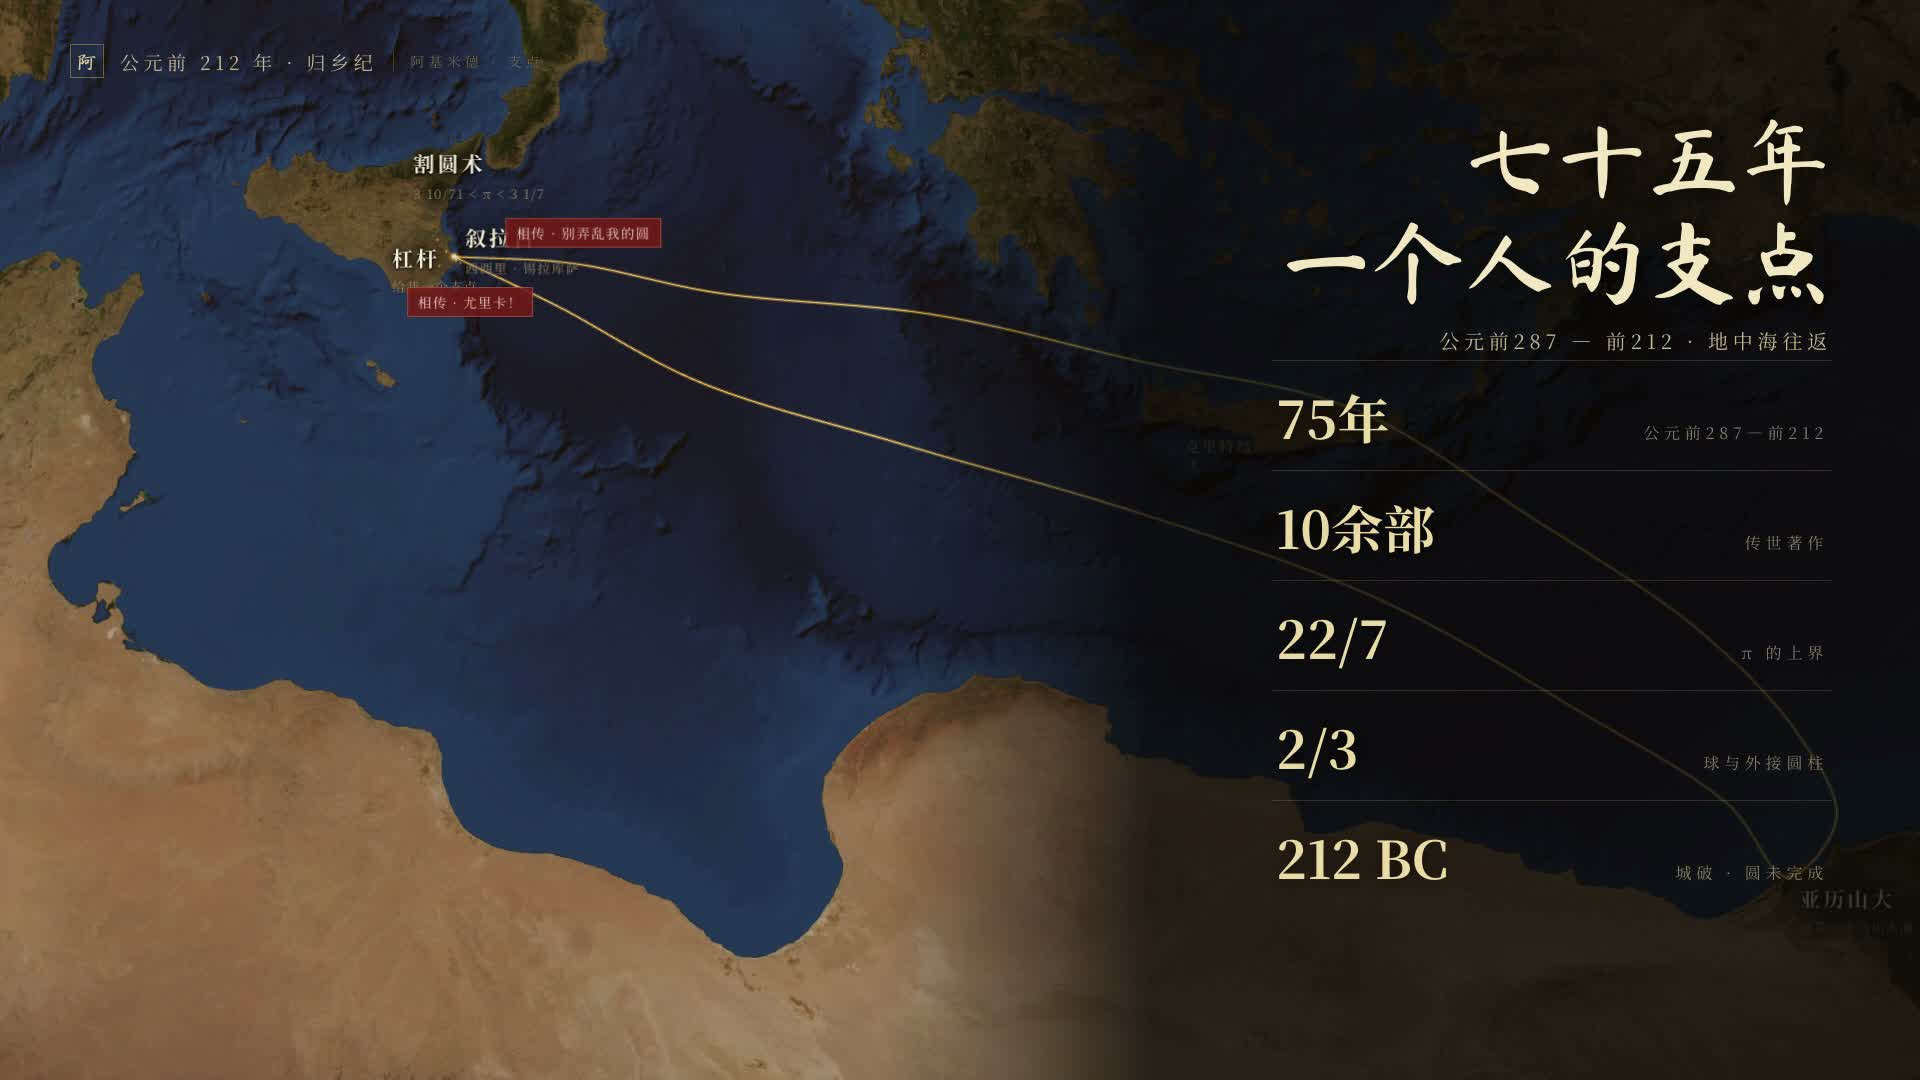
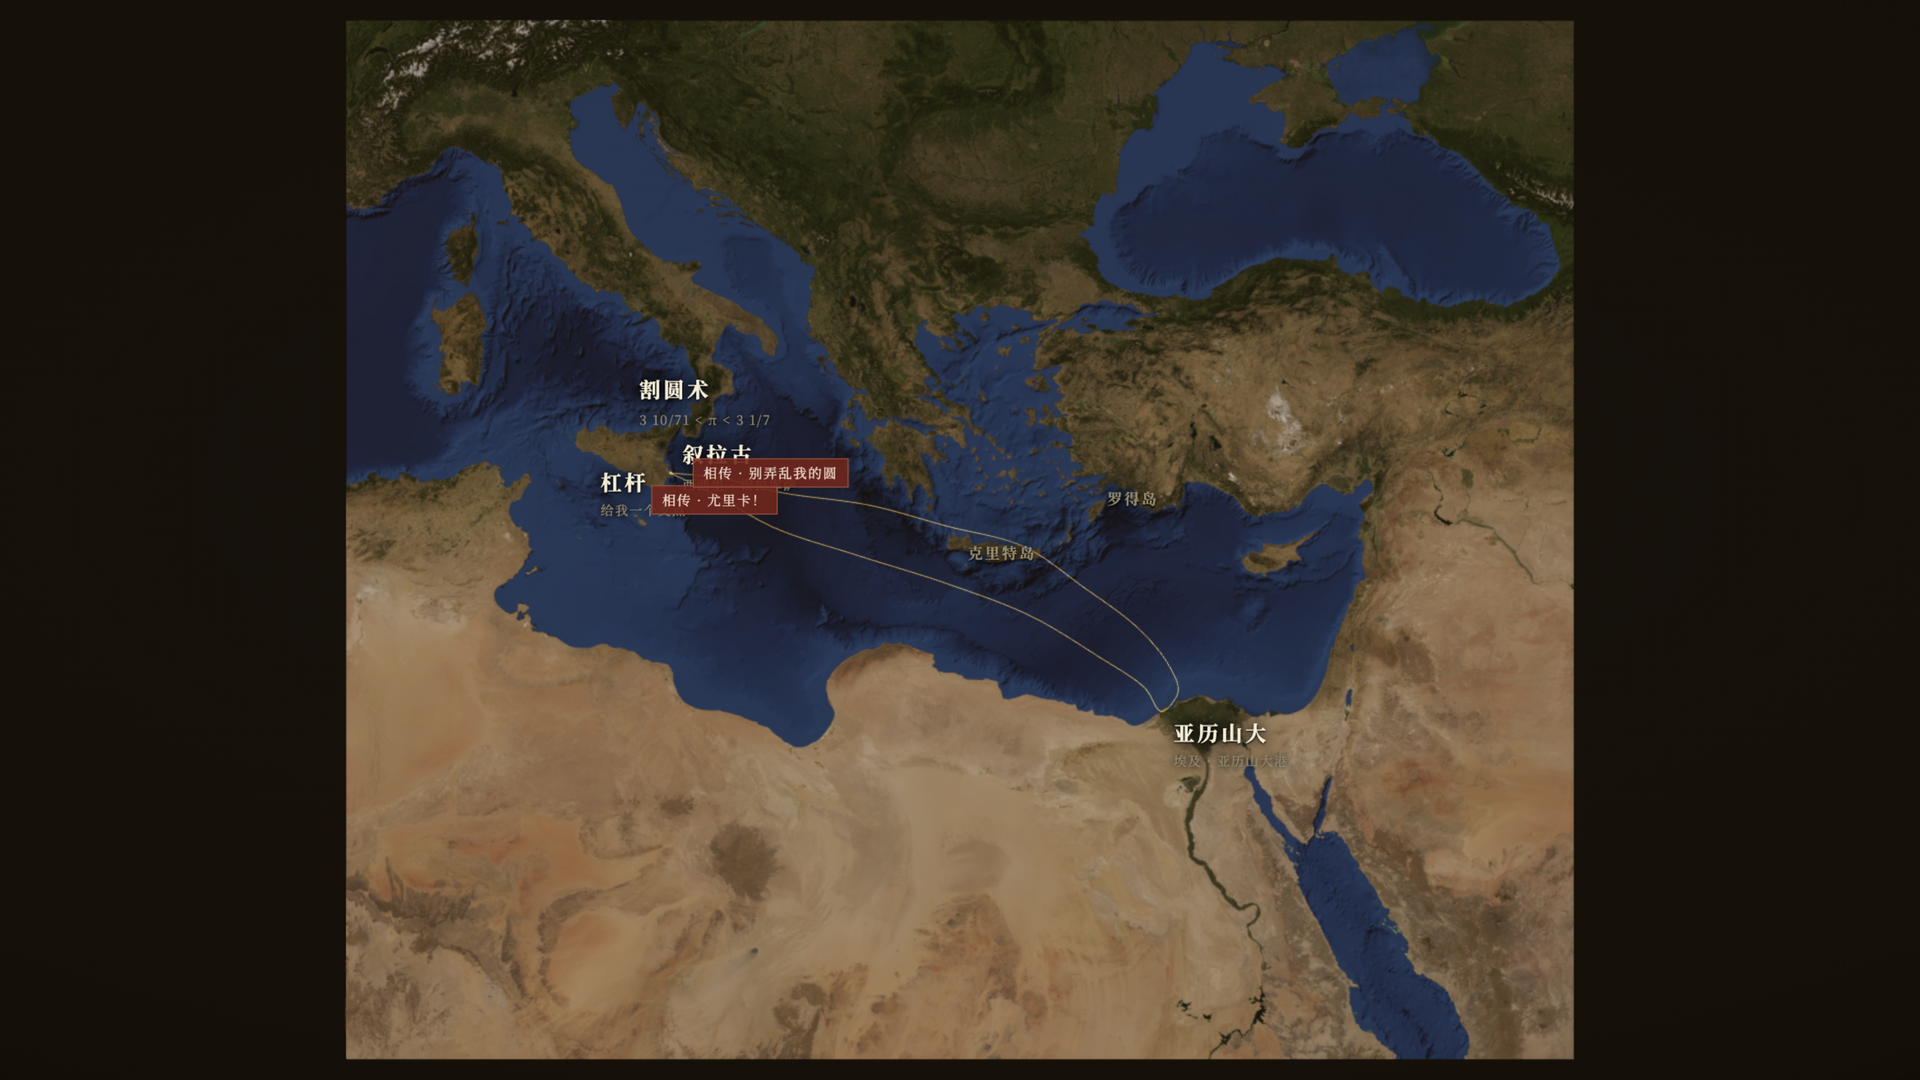
fix: 卡片最小化 + 封面统一为纯地图总览（无文字覆盖）

diff --git a/archimedes/interactive.html b/archimedes/interactive.html
@@ -199,7 +199,7 @@
       #stationcard.minimized #card-text { display: none !important; }
       #stationcard.minimized { width: auto; min-width: 220px; }
       #card-min {
-        position: absolute; right: 8px; top: 8px; z-index: 11;
+        position: absolute; right: 8px; top: 8px; z-index: 11; pointer-events: auto;
         width: 28px; height: 28px; border: 1px solid rgba(206,166,92,0.4);
         background: rgba(14,11,8,0.7); color: #e0cf9f; font-size: 14px;
         cursor: pointer; display: flex; align-items: center; justify-content: center;

diff --git a/faxian/interactive.html b/faxian/interactive.html
@@ -199,7 +199,7 @@
       #stationcard.minimized #card-text { display: none !important; }
       #stationcard.minimized { width: auto; min-width: 220px; }
       #card-min {
-        position: absolute; right: 8px; top: 8px; z-index: 11;
+        position: absolute; right: 8px; top: 8px; z-index: 11; pointer-events: auto;
         width: 28px; height: 28px; border: 1px solid rgba(206,166,92,0.4);
         background: rgba(14,11,8,0.7); color: #e0cf9f; font-size: 14px;
         cursor: pointer; display: flex; align-items: center; justify-content: center;

diff --git a/marcopolo/interactive.html b/marcopolo/interactive.html
@@ -199,7 +199,7 @@
       #stationcard.minimized #card-text { display: none !important; }
       #stationcard.minimized { width: auto; min-width: 220px; }
       #card-min {
-        position: absolute; right: 8px; top: 8px; z-index: 11;
+        position: absolute; right: 8px; top: 8px; z-index: 11; pointer-events: auto;
         width: 28px; height: 28px; border: 1px solid rgba(206,166,92,0.4);
         background: rgba(14,11,8,0.7); color: #e0cf9f; font-size: 14px;
         cursor: pointer; display: flex; align-items: center; justify-content: center;

diff --git a/xuanzang/interactive.html b/xuanzang/interactive.html
@@ -199,7 +199,7 @@
       #stationcard.minimized #card-text { display: none !important; }
       #stationcard.minimized { width: auto; min-width: 220px; }
       #card-min {
-        position: absolute; right: 8px; top: 8px; z-index: 11;
+        position: absolute; right: 8px; top: 8px; z-index: 11; pointer-events: auto;
         width: 28px; height: 28px; border: 1px solid rgba(206,166,92,0.4);
         background: rgba(14,11,8,0.7); color: #e0cf9f; font-size: 14px;
         cursor: pointer; display: flex; align-items: center; justify-content: center;

diff --git a/zhangqian/interactive.html b/zhangqian/interactive.html
@@ -199,7 +199,7 @@
       #stationcard.minimized #card-text { display: none !important; }
       #stationcard.minimized { width: auto; min-width: 220px; }
       #card-min {
-        position: absolute; right: 8px; top: 8px; z-index: 11;
+        position: absolute; right: 8px; top: 8px; z-index: 11; pointer-events: auto;
         width: 28px; height: 28px; border: 1px solid rgba(206,166,92,0.4);
         background: rgba(14,11,8,0.7); color: #e0cf9f; font-size: 14px;
         cursor: pointer; display: flex; align-items: center; justify-content: center;
